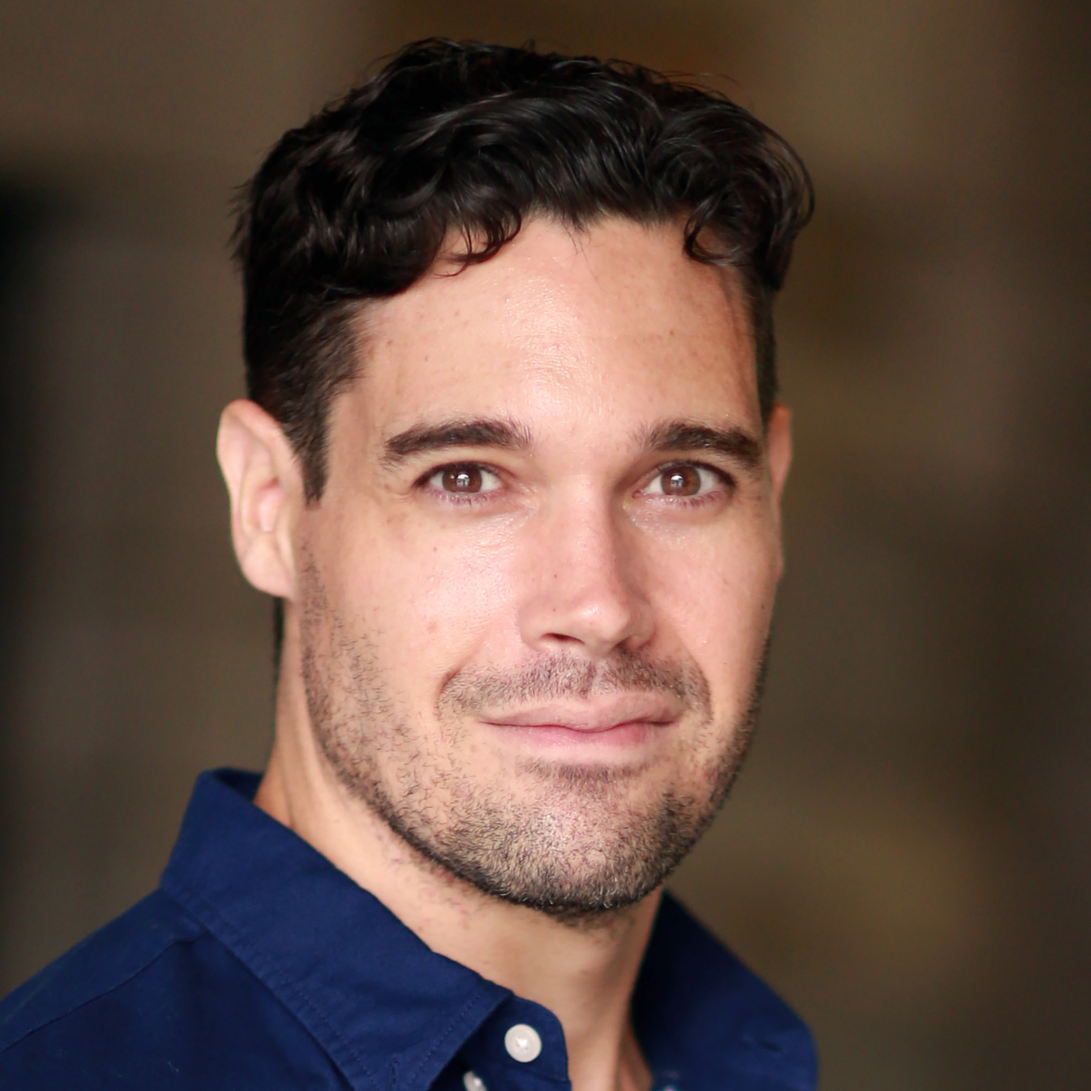
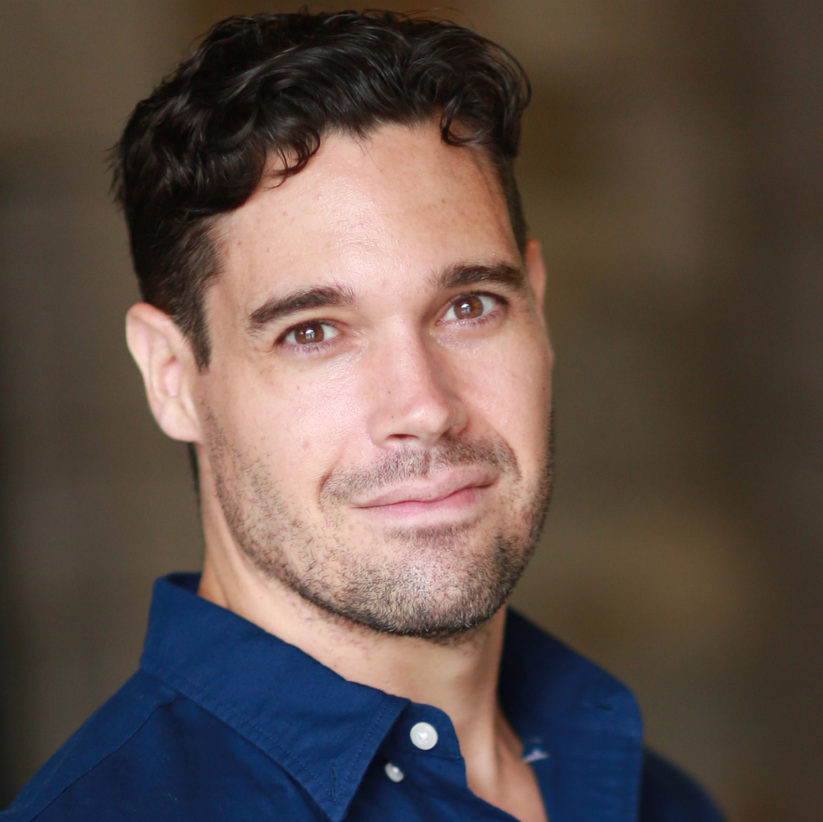
Update headshot

diff --git a/index.html b/index.html
@@ -14,10 +14,7 @@
     />
 
     <title>Matthew Greer - Software Engineer Portfolio</title>
-<!--
-Reflux Template
-https://templatemo.com/tm-531-reflux
--->
+
     <!-- Bootstrap core CSS -->
     <link href="vendor/bootstrap/css/bootstrap.min.css" rel="stylesheet" />
 
